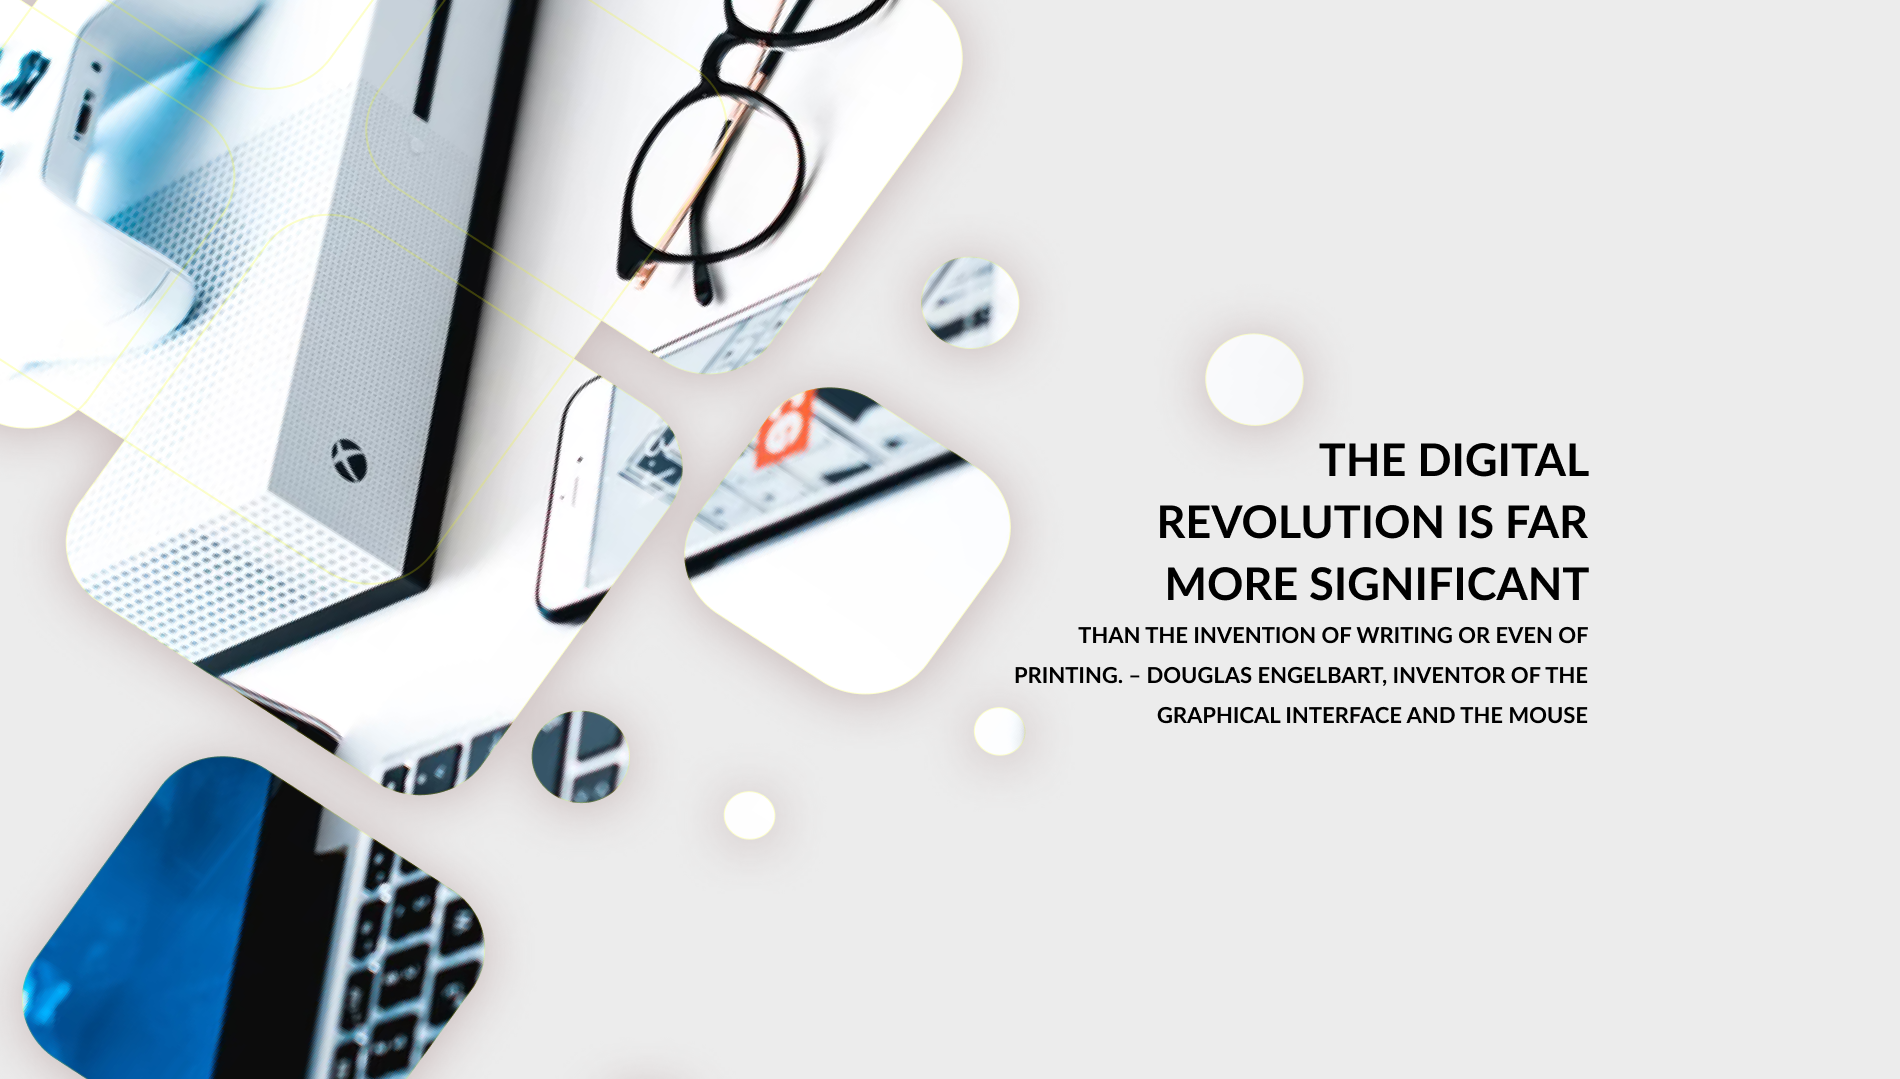
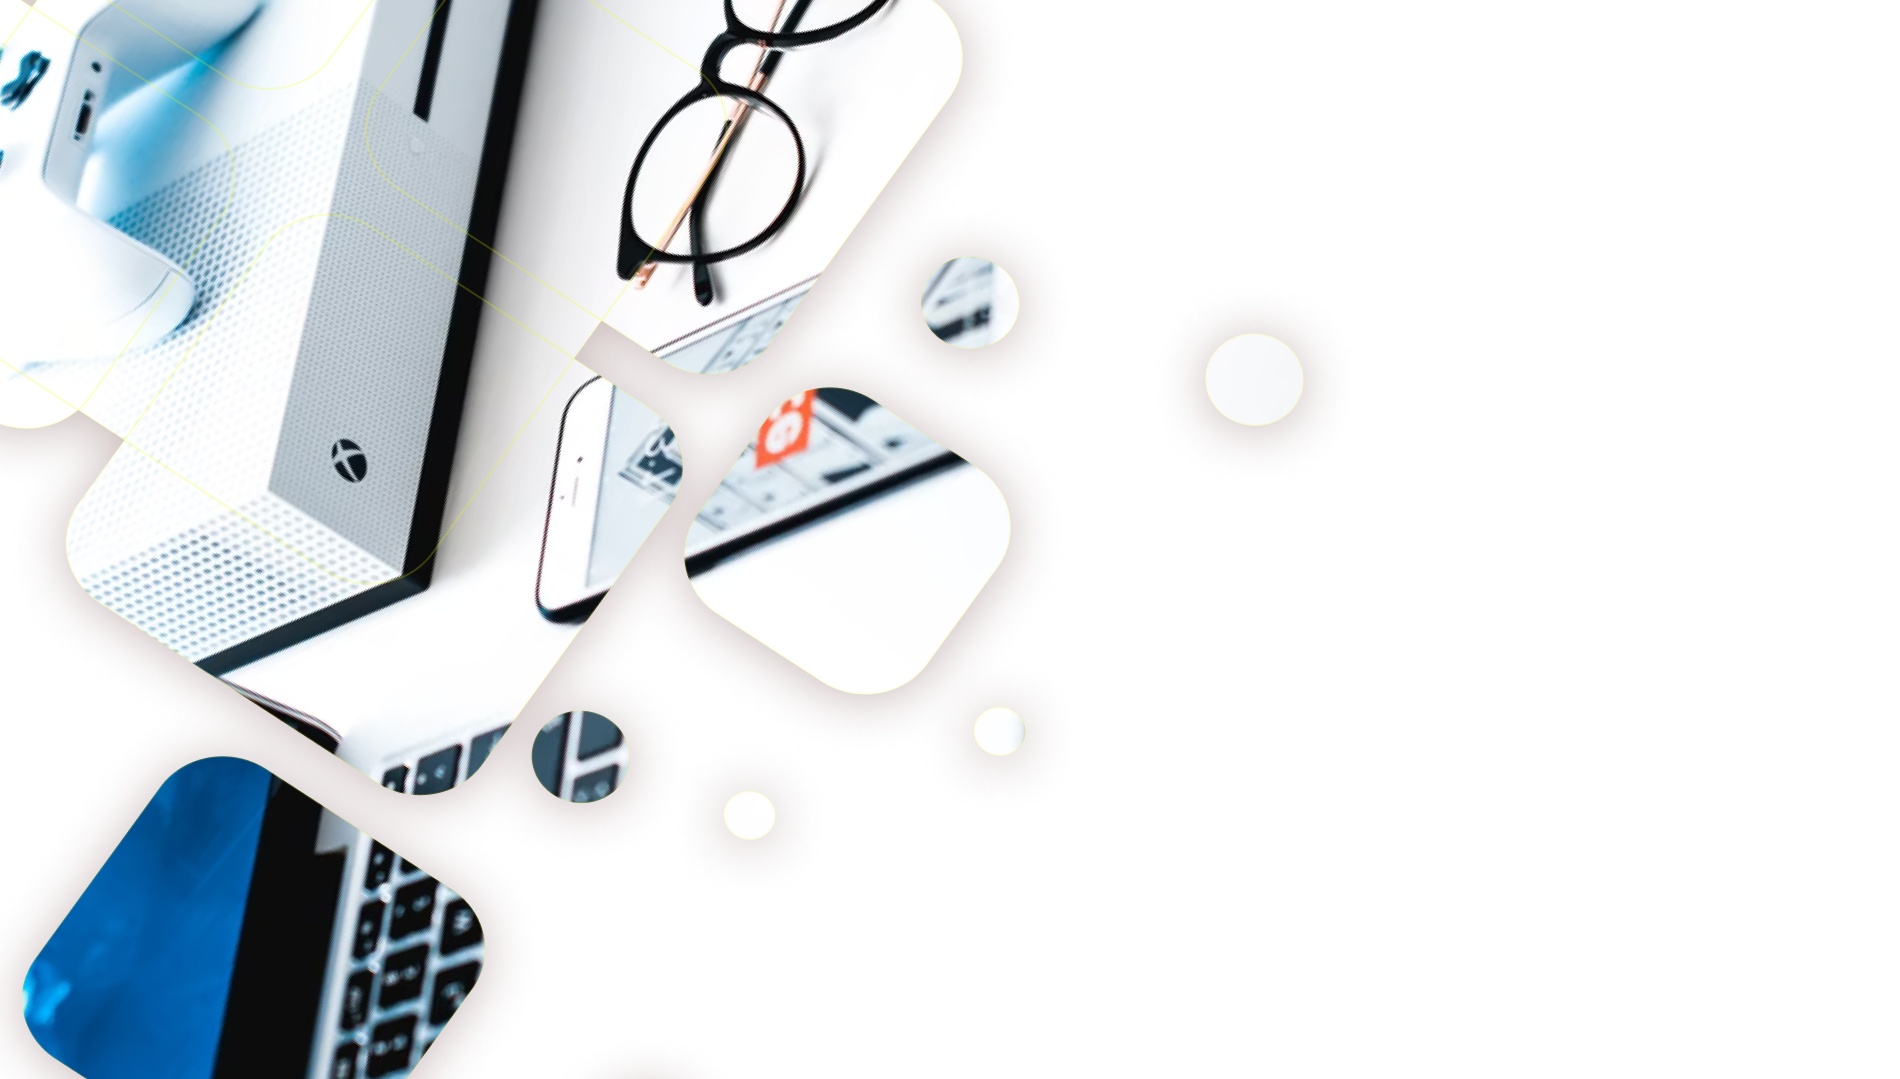
configure production base

Changed region(s): [[0.5279, 0.3976, 0.8384, 0.6728]]

diff --git a/index.html b/index.html
@@ -8,19 +8,20 @@
     <link rel="stylesheet" href="./assets/css/app.scss">
 </head>
 <body>
-    <div class="container mt-4">
-        <div class="alert alert-success intro" role="alert">
-            A simple primary alert—check it 2022
+    <section class="home-top overflow-hidden position-relative">
+        <img src="./assets/images/banner-home.png" alt="banner-home" class="position-absolute start-0 top-0 home-banner" width="100%">
+
+        <div class="home-content pt-3 pe-3">
+            <div class="row justify-content-end align-items-center">
+                <div class="col-md-3">
+                    <img src="./assets/images/logo.png" alt="logo" width="100%">
+                </div>
+                <div class="col-md-2">
+                    Icon Menu
+                </div>
+            </div>
         </div>
-
-        <div class="my-4">
-            <h1 class="my-color">Good evening</h1>
-            <h1 class="my-color">Good evening</h1>
-        </div>
-    </div>
-
-    
-
-    <script src="./assets/js/app.js"></script>
+    </section>
+    <script src="./assets/js/app.js" type="module"></script>
 </body>
 </html>

diff --git a/vite.config.js b/vite.config.js
@@ -1,0 +1,13 @@
+const { resolve } = require('path')
+const { defineConfig } = require('vite')
+
+module.exports = defineConfig({
+  base: process.env.NODE_ENV  ===  'production'  ?  './'  :  '/',
+  build: {
+    rollupOptions: {
+      input: {
+        main: resolve(__dirname, 'index.html')
+      }
+    }
+  }
+})

diff --git a/assets/css/app.scss b/assets/css/app.scss
@@ -18,3 +18,11 @@
 //         color: red;
 //     }
 // }
+.home-top{
+    background-color: #ececec;
+    height: 700px;
+
+    .home-content{
+        z-index: 2;
+    }
+}
